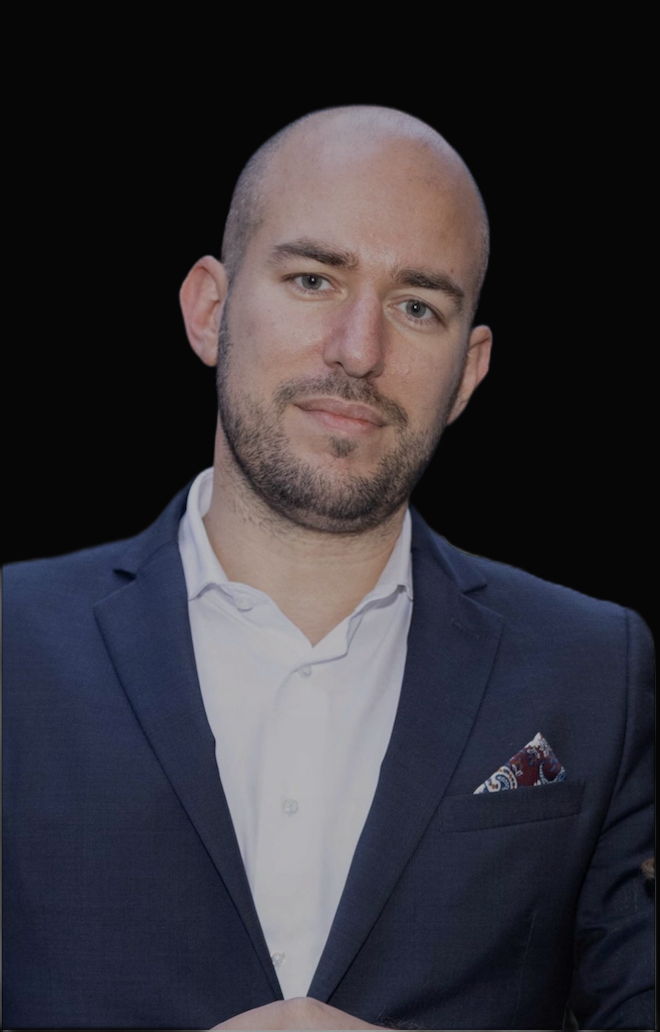
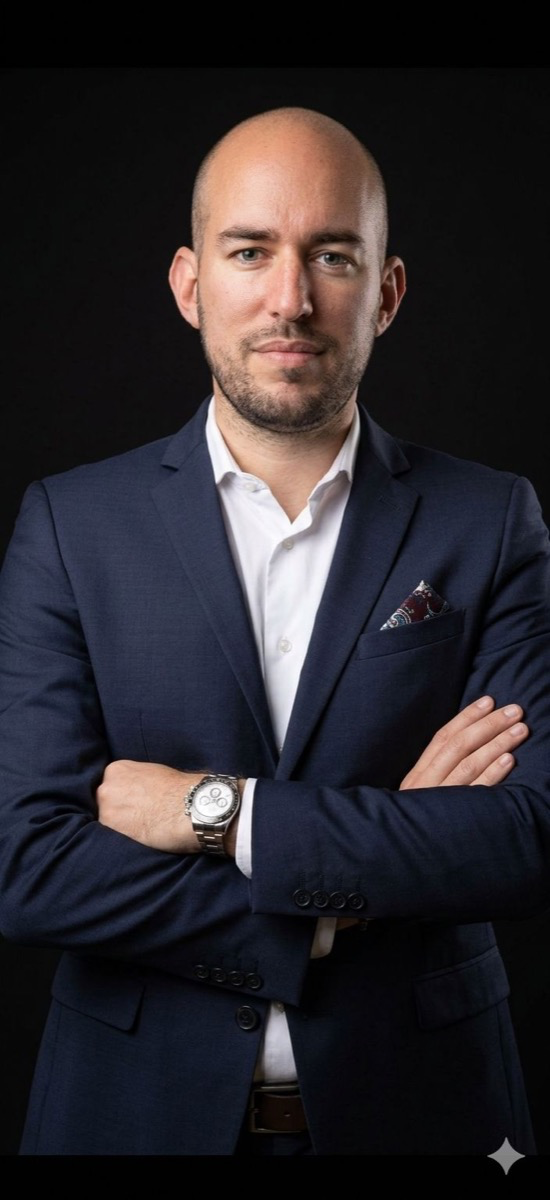
feat: replace Luca photo with new professional portrait

diff --git a/index.html b/index.html
@@ -40,7 +40,7 @@
     <div class="hero__content hero__content--split">
       <div class="hero__text">
         <p class="hero__eyebrow">Founded 2018 &middot; London &middot; Luxembourg &middot; Milan</p>
-        <h1 class="hero__title"><span class="gold">Alternative investments,</span><br>structured for those who think<br>beyond the ordinary.</h1>
+        <h1 class="hero__title"><span class="gold">Alternative investments,</span><br>structured for those who think<br><span class="gold">beyond</span> the ordinary.</h1>
         <p class="hero__sub">We build and manage alternative investment funds, structured products, and AI-driven portfolios from Luxembourg. Independent. Regulated. Aligned with your interests.</p>
         <div class="hero__actions">
           <a href="#services" class="btn btn--primary">Explore Our Services</a>
@@ -48,92 +48,107 @@
         </div>
       </div>
       <div class="hero__visual" aria-hidden="true">
-        <svg class="hero__network" viewBox="0 0 400 480" xmlns="http://www.w3.org/2000/svg">
+        <svg class="hero__network" viewBox="0 0 400 480" xmlns="http://www.w3.org/2000/svg" fill="none">
           <defs>
             <radialGradient id="cityGlow" cx="50%" cy="100%" r="80%">
-              <stop offset="0%" stop-color="#e0c874" stop-opacity="0.6"/>
-              <stop offset="50%" stop-color="#c9a84c" stop-opacity="0.25"/>
+              <stop offset="0%" stop-color="#e0c874" stop-opacity="0.35"/>
+              <stop offset="50%" stop-color="#c9a84c" stop-opacity="0.15"/>
               <stop offset="100%" stop-color="#c9a84c" stop-opacity="0"/>
             </radialGradient>
-            <linearGradient id="towerGradient" x1="0%" y1="0%" x2="0%" y2="100%">
-              <stop offset="0%" stop-color="#e0c874" stop-opacity="0.9"/>
-              <stop offset="100%" stop-color="#8a6f2e" stop-opacity="0.3"/>
-            </linearGradient>
-            <linearGradient id="towerGradient2" x1="0%" y1="0%" x2="0%" y2="100%">
-              <stop offset="0%" stop-color="#c9a84c" stop-opacity="0.7"/>
-              <stop offset="100%" stop-color="#8a6f2e" stop-opacity="0.2"/>
-            </linearGradient>
-            <linearGradient id="spireGradient" x1="0%" y1="0%" x2="0%" y2="100%">
+            <linearGradient id="lineFade" x1="0%" y1="0%" x2="0%" y2="100%">
               <stop offset="0%" stop-color="#e0c874" stop-opacity="1"/>
-              <stop offset="100%" stop-color="#c9a84c" stop-opacity="0.5"/>
+              <stop offset="100%" stop-color="#c9a84c" stop-opacity="0.35"/>
             </linearGradient>
-            <pattern id="windowGrid" width="10" height="14" patternUnits="userSpaceOnUse">
-              <rect x="2" y="2" width="3" height="4" fill="#e0c874" opacity="0.55"/>
-              <rect x="7" y="2" width="3" height="4" fill="#c9a84c" opacity="0.35"/>
-              <rect x="2" y="8" width="3" height="4" fill="#c9a84c" opacity="0.45"/>
-              <rect x="7" y="8" width="3" height="4" fill="#e0c874" opacity="0.25"/>
-            </pattern>
-            <pattern id="windowGridDense" width="8" height="10" patternUnits="userSpaceOnUse">
-              <rect x="1.5" y="1.5" width="2.5" height="3" fill="#e0c874" opacity="0.5"/>
-              <rect x="5" y="1.5" width="2.5" height="3" fill="#c9a84c" opacity="0.3"/>
-              <rect x="1.5" y="6" width="2.5" height="3" fill="#c9a84c" opacity="0.4"/>
-              <rect x="5" y="6" width="2.5" height="3" fill="#e0c874" opacity="0.2"/>
-            </pattern>
           </defs>
 
-          <!-- Ambient glow base -->
-          <ellipse cx="200" cy="440" rx="200" ry="80" fill="url(#cityGlow)"/>
+          <!-- Ambient gold glow at base -->
+          <ellipse cx="200" cy="440" rx="220" ry="80" fill="url(#cityGlow)"/>
 
-          <!-- Back-layer towers (muted) -->
-          <g class="hero__city-back" opacity="0.55">
-            <rect x="30" y="240" width="42" height="220" fill="url(#towerGradient2)"/>
-            <rect x="34" y="250" width="34" height="200" fill="url(#windowGrid)" opacity="0.6"/>
+          <!-- Back-layer towers (very thin, muted lines) -->
+          <g class="hero__city-back" stroke="#c9a84c" stroke-width="0.75" opacity="0.4">
+            <!-- Far-left tower -->
+            <path d="M 30 460 L 30 240 L 72 240 L 72 460"/>
+            <line x1="30" y1="280" x2="72" y2="280"/>
+            <line x1="30" y1="340" x2="72" y2="340"/>
+            <line x1="30" y1="400" x2="72" y2="400"/>
+            <line x1="51" y1="240" x2="51" y2="460"/>
 
-            <rect x="330" y="220" width="48" height="240" fill="url(#towerGradient2)"/>
-            <rect x="334" y="232" width="40" height="220" fill="url(#windowGrid)" opacity="0.6"/>
+            <!-- Far-right tower -->
+            <path d="M 330 460 L 330 220 L 378 220 L 378 460"/>
+            <line x1="330" y1="260" x2="378" y2="260"/>
+            <line x1="330" y1="320" x2="378" y2="320"/>
+            <line x1="330" y1="380" x2="378" y2="380"/>
+            <line x1="354" y1="220" x2="354" y2="460"/>
 
-            <rect x="86" y="200" width="36" height="260" fill="url(#towerGradient2)"/>
-            <rect x="90" y="212" width="28" height="240" fill="url(#windowGrid)" opacity="0.55"/>
+            <!-- Left-back tower -->
+            <path d="M 86 460 L 86 200 L 122 200 L 122 460"/>
+            <line x1="86" y1="250" x2="122" y2="250"/>
+            <line x1="86" y1="310" x2="122" y2="310"/>
+            <line x1="86" y1="370" x2="122" y2="370"/>
+            <line x1="104" y1="200" x2="104" y2="460"/>
           </g>
 
-          <!-- Mid-layer towers -->
-          <g class="hero__city-mid">
+          <!-- Mid-layer towers (sleek line drawings) -->
+          <g class="hero__city-mid" stroke="url(#lineFade)" stroke-width="1" opacity="0.85">
             <!-- Left stepped tower -->
-            <rect x="130" y="160" width="58" height="300" fill="url(#towerGradient)"/>
-            <rect x="134" y="172" width="50" height="280" fill="url(#windowGridDense)" opacity="0.9"/>
-            <rect x="138" y="140" width="42" height="24" fill="url(#towerGradient)"/>
+            <path d="M 138 460 L 138 140 L 180 140 L 180 164 L 188 164 L 188 460"/>
+            <!-- horizontal floor bands -->
+            <line x1="138" y1="180" x2="188" y2="180"/>
+            <line x1="138" y1="220" x2="188" y2="220"/>
+            <line x1="138" y1="260" x2="188" y2="260"/>
+            <line x1="138" y1="300" x2="188" y2="300"/>
+            <line x1="138" y1="340" x2="188" y2="340"/>
+            <line x1="138" y1="380" x2="188" y2="380"/>
+            <line x1="138" y1="420" x2="188" y2="420"/>
+            <!-- vertical mullions -->
+            <line x1="155" y1="140" x2="155" y2="460"/>
+            <line x1="171" y1="164" x2="171" y2="460"/>
 
             <!-- Right stepped tower -->
-            <rect x="250" y="180" width="62" height="280" fill="url(#towerGradient)"/>
-            <rect x="254" y="192" width="54" height="260" fill="url(#windowGridDense)" opacity="0.85"/>
-            <rect x="256" y="160" width="50" height="22" fill="url(#towerGradient)"/>
-            <rect x="264" y="140" width="34" height="22" fill="url(#towerGradient)"/>
+            <path d="M 250 460 L 250 180 L 256 180 L 256 160 L 306 160 L 306 180 L 312 180 L 312 460"/>
+            <!-- floor bands -->
+            <line x1="250" y1="210" x2="312" y2="210"/>
+            <line x1="250" y1="250" x2="312" y2="250"/>
+            <line x1="250" y1="290" x2="312" y2="290"/>
+            <line x1="250" y1="330" x2="312" y2="330"/>
+            <line x1="250" y1="370" x2="312" y2="370"/>
+            <line x1="250" y1="410" x2="312" y2="410"/>
+            <!-- vertical mullions -->
+            <line x1="271" y1="180" x2="271" y2="460"/>
+            <line x1="291" y1="180" x2="291" y2="460"/>
           </g>
 
-          <!-- Central landmark spire -->
-          <g class="hero__city-spire">
-            <!-- Tower shaft -->
-            <rect x="192" y="120" width="28" height="340" fill="url(#spireGradient)"/>
-            <rect x="195" y="132" width="22" height="320" fill="url(#windowGridDense)" opacity="0.95"/>
-            <!-- Crown / setback -->
-            <rect x="186" y="100" width="40" height="22" fill="url(#spireGradient)"/>
-            <rect x="196" y="80" width="20" height="22" fill="url(#spireGradient)"/>
-            <!-- Antenna / spire -->
-            <line x1="206" y1="20" x2="206" y2="80" stroke="#e0c874" stroke-width="2"/>
-            <circle cx="206" cy="14" r="4" fill="#e0c874"/>
+          <!-- Central landmark spire (hero element, brightest) -->
+          <g class="hero__city-spire" stroke="#e0c874" stroke-width="1.2">
+            <!-- tower shaft -->
+            <path d="M 192 460 L 192 120 L 186 120 L 186 100 L 196 100 L 196 80 L 216 80 L 216 100 L 226 100 L 226 120 L 220 120 L 220 460"/>
+            <!-- floor bands -->
+            <line x1="192" y1="150" x2="220" y2="150"/>
+            <line x1="192" y1="190" x2="220" y2="190"/>
+            <line x1="192" y1="230" x2="220" y2="230"/>
+            <line x1="192" y1="270" x2="220" y2="270"/>
+            <line x1="192" y1="310" x2="220" y2="310"/>
+            <line x1="192" y1="350" x2="220" y2="350"/>
+            <line x1="192" y1="390" x2="220" y2="390"/>
+            <line x1="192" y1="430" x2="220" y2="430"/>
+            <!-- central mullion -->
+            <line x1="206" y1="80" x2="206" y2="460"/>
+            <!-- antenna -->
+            <line x1="206" y1="20" x2="206" y2="80" stroke-width="1"/>
+            <circle cx="206" cy="14" r="3" fill="#e0c874" stroke="none"/>
           </g>
 
-          <!-- Accent lines (architectural blueprint feel) -->
-          <g class="hero__city-accents" stroke="#c9a84c" stroke-width="0.75" fill="none" opacity="0.35">
-            <line x1="0" y1="460" x2="400" y2="460"/>
-            <line x1="0" y1="140" x2="400" y2="140" stroke-dasharray="3 6"/>
+          <!-- Horizon line accent -->
+          <g class="hero__city-accents" stroke="#c9a84c" opacity="0.35">
+            <line x1="0" y1="460" x2="400" y2="460" stroke-width="0.75"/>
+            <line x1="0" y1="140" x2="400" y2="140" stroke-width="0.5" stroke-dasharray="3 6"/>
           </g>
 
-          <!-- Floating signal pulses -->
+          <!-- Signal pulse at spire tip -->
           <g class="hero__city-pulses">
-            <circle cx="206" cy="14" r="6" fill="none" stroke="#e0c874" stroke-width="1"/>
-            <circle cx="160" cy="140" r="3" fill="#e0c874" opacity="0.85"/>
-            <circle cx="280" cy="162" r="3" fill="#e0c874" opacity="0.7"/>
+            <circle cx="206" cy="14" r="6" stroke="#e0c874" stroke-width="1" fill="none"/>
+            <circle cx="155" cy="140" r="2" fill="#e0c874" stroke="none" opacity="0.85"/>
+            <circle cx="291" cy="160" r="2" fill="#e0c874" stroke="none" opacity="0.7"/>
           </g>
         </svg>
       </div>

diff --git a/style.css b/style.css
@@ -285,7 +285,7 @@ body {
   display: grid;
   grid-template-columns: minmax(0, 1.2fr) minmax(0, 1fr);
   gap: 64px;
-  align-items: center;
+  align-items: start;
 }
 
 .hero__text {
@@ -299,16 +299,17 @@ body {
 
 .hero__visual {
   display: flex;
-  align-items: center;
+  align-items: flex-start;
   justify-content: center;
   position: relative;
+  margin-top: -40px;
   opacity: 0;
   animation: heroFadeUp 1.2s var(--ease-out-expo) 0.6s forwards;
 }
 
 .hero__network {
   width: 100%;
-  max-width: 440px;
+  max-width: 420px;
   height: auto;
   filter: drop-shadow(0 0 40px rgba(201, 168, 76, 0.15));
 }
@@ -375,12 +376,13 @@ body {
 
 .hero__title {
   font-family: var(--font-serif);
-  font-size: clamp(38px, 5vw, 60px);
-  font-weight: 600;
-  line-height: 1.12;
+  font-size: clamp(30px, 3.6vw, 46px);
+  font-weight: 500;
+  line-height: 1.18;
+  letter-spacing: -0.01em;
   color: var(--white);
-  margin-bottom: 28px;
-  max-width: 800px;
+  margin-bottom: 24px;
+  max-width: 680px;
   opacity: 0;
   transform: translateY(30px);
   animation: heroFadeUp 1s var(--ease-out-expo) 0.4s forwards;
@@ -394,11 +396,11 @@ body {
 }
 
 .hero__sub {
-  font-size: 18px;
-  color: rgba(255,255,255,0.5);
-  max-width: 580px;
-  margin-bottom: 44px;
-  line-height: 1.8;
+  font-size: 15px;
+  color: rgba(255,255,255,0.55);
+  max-width: 520px;
+  margin-bottom: 36px;
+  line-height: 1.75;
   opacity: 0;
   transform: translateY(20px);
   animation: heroFadeUp 0.8s var(--ease-out-expo) 0.6s forwards;
@@ -1483,9 +1485,9 @@ body {
   }
 
   .hero__title {
-    font-size: 32px;
-    line-height: 1.15;
-    margin-bottom: 20px;
+    font-size: 26px;
+    line-height: 1.2;
+    margin-bottom: 18px;
   }
 
   .hero__title br {
@@ -1493,8 +1495,8 @@ body {
   }
 
   .hero__sub {
-    font-size: 16px;
-    margin-bottom: 32px;
+    font-size: 14px;
+    margin-bottom: 28px;
     line-height: 1.7;
   }
 
